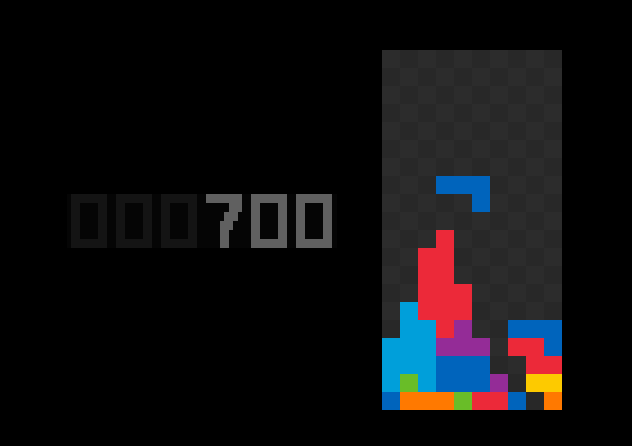
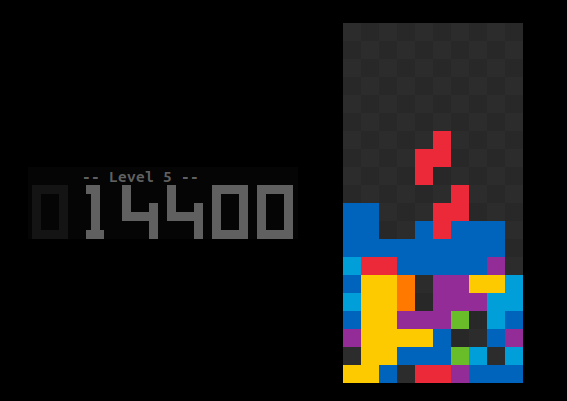
Add incremental fall speed

Changed region(s): [[0.5996, 0.0599, 0.9295, 0.9576], [0.1799, 0.419, 0.5397, 0.5985], [0.1499, 0.4489, 0.1799, 0.5985]]

diff --git a/tetris.cpp b/tetris.cpp
@@ -12,6 +12,7 @@ Tetris::Tetris(): game_board(), score_board(), current_block(&(this->game_board)
 	this->current_block.getNewBlock();
 	this->score = 0;
 	this->line_clears = 0;
+	this->updateInterval();
 	int screen_height,screen_width;
 
 	/* Intialise Screen */
@@ -68,7 +69,7 @@ void Tetris::loop() {
 		clock_t t1 = clock(), t2 = clock();
 		do {
 			this->game_board.render();
-			while (((pressed_key = getch()) == ERR) && ((t2 - t1) < CLOCKS_PER_SEC)) {
+			while (((pressed_key = getch()) == ERR) && ((t2 - t1) < this->interval)) {
 				t2 = clock();
 			}
 			if(pressed_key != ERR) {
@@ -85,11 +86,12 @@ void Tetris::loop() {
 				}
 			}
 			t2 = clock();
-		} while (t2 - t1 < CLOCKS_PER_SEC);
+		} while (t2 - t1 < this->interval);
 		
 		if (this->current_block.isTouchingBelow()) {
 			int linesCleared = this->game_board.lineClear();
 			this->updateScore(linesCleared);
+			this->updateInterval();
 
 			try {
 				this->current_block.getNewBlock();
@@ -119,6 +121,56 @@ void Tetris::updateScore(int linesCleared) {
 
 	this->line_clears += linesCleared;
 	this->score_board.update(this->getScore(), this->getLevel());
+}
+
+void Tetris::updateInterval() {
+	/*
+	 * Updates intervals according to level:
+	 *     1: 1000
+	 *     2: 896
+	 *     3: 792
+	 *     4: 688
+	 *     5: 584
+	 *     6: 480
+	 *     7: 376
+	 *     8: 272
+	 *     9: 168
+	 *    10: 125
+	 * 11-13: 104
+	 * 14-16: 83
+	 * 17-19: 63
+	 * 20-29: 42
+	 *  >=30: 21
+	 *
+	 *  reference scaled up from : https://harddrop.com/wiki/Tetris_(NES,_Nintendo)
+	 */
+	float multiplier = 1000;
+	int current_level = this->getLevel();
+
+	if (current_level < 10) {
+		/* 1-9 */
+		multiplier = 1000 - 104 * (current_level - 1);
+	} else if (current_level == 10) {
+		/* 10 */
+		multiplier = 125;
+	} else if (current_level < 14) {
+		/* 11-13 */
+		multiplier = 104;
+	} else if (current_level < 17 ) {
+		/* 14-16 */
+		multiplier = 83;
+	} else if (current_level < 20 ) {
+		/* 17-19 */
+		multiplier = 63;
+	} else if (current_level < 30 ) {
+		/* 20-29 */
+		multiplier = 42;
+	} else {
+		/* >=30 */
+		multiplier = 21;
+	}
+
+	this->interval = (int) ((CLOCKS_PER_SEC / 1000.0) * multiplier);
 }
 
 void Tetris::formColours() {

diff --git a/score_board.cpp b/score_board.cpp
@@ -23,7 +23,7 @@ void ScoreBoard::render() {
 	werase(this->score_win);
 	
 	/* Render Level */
-	wmove(this->score_win, 0, (this->width - (this->getNoOfDigitsInInteger(this->rendered_score) + 12)) / 2);
+	wmove(this->score_win, 0, (this->width - (this->getNoOfDigitsInInteger(this->rendered_level) + 12)) / 2);
 	wattron(this->score_win, COLOR_PAIR(SCORE));
 	wattron(this->score_win, A_BOLD);
 	wprintw(this->score_win, "-- Level %d --", this->rendered_level);

diff --git a/tetris.hpp b/tetris.hpp
@@ -10,7 +10,7 @@ class Tetris {
 		ScoreBoard score_board;
 		bool game_over;
 		TetBlock current_block;
-		int line_clears, score;
+		int line_clears, score, interval;
 	public:
 		Tetris();
 		~Tetris();
@@ -23,6 +23,7 @@ class Tetris {
 		/* Methods */
 		void loop();
 		void updateScore(int);
+		void updateInterval();
 		void formColours();
 };
 

diff --git a/README.md b/README.md
@@ -14,7 +14,8 @@ This project is a remake of the classic game of Tetris for the linux console.
 	- [x] ~~Refactor key movements (ncurses used here)~~
 	- [x] ~~Refactor line clearing~~
 	- [x] ~~Refactor Game over functions~~
-- [ ] Add Scoreboard
+- [x] Add Scoreboard
+- [x] Add incremental speed of falling blocks
 - [ ] Add T-spins
 - [ ] Add next block window
 
